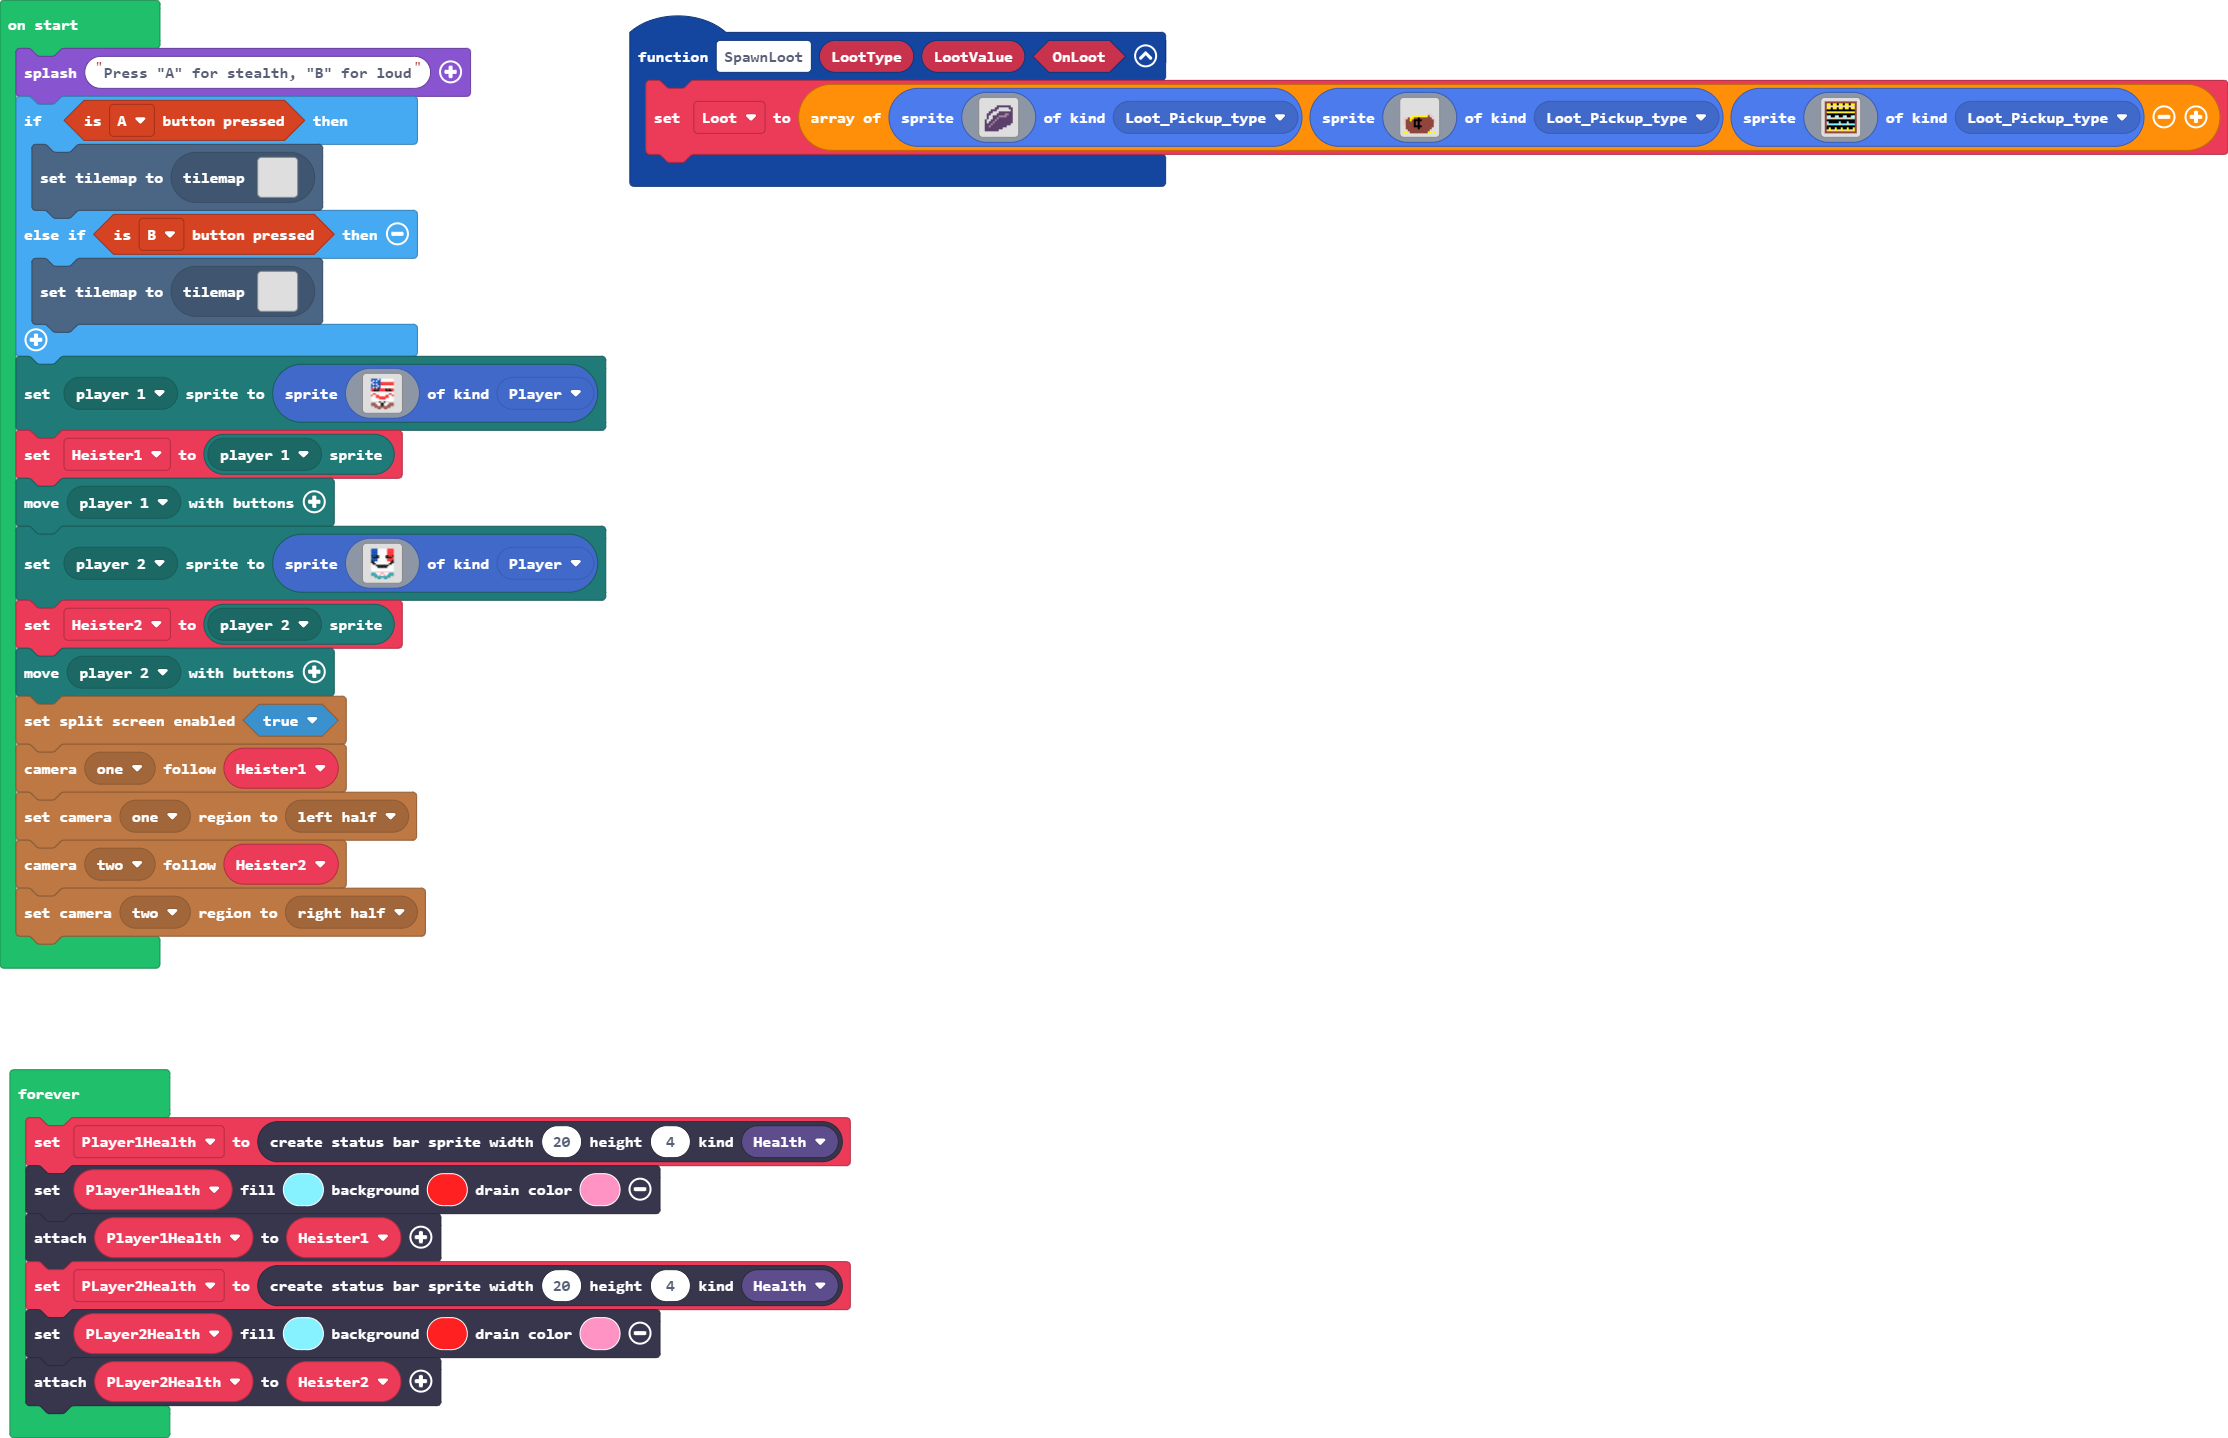
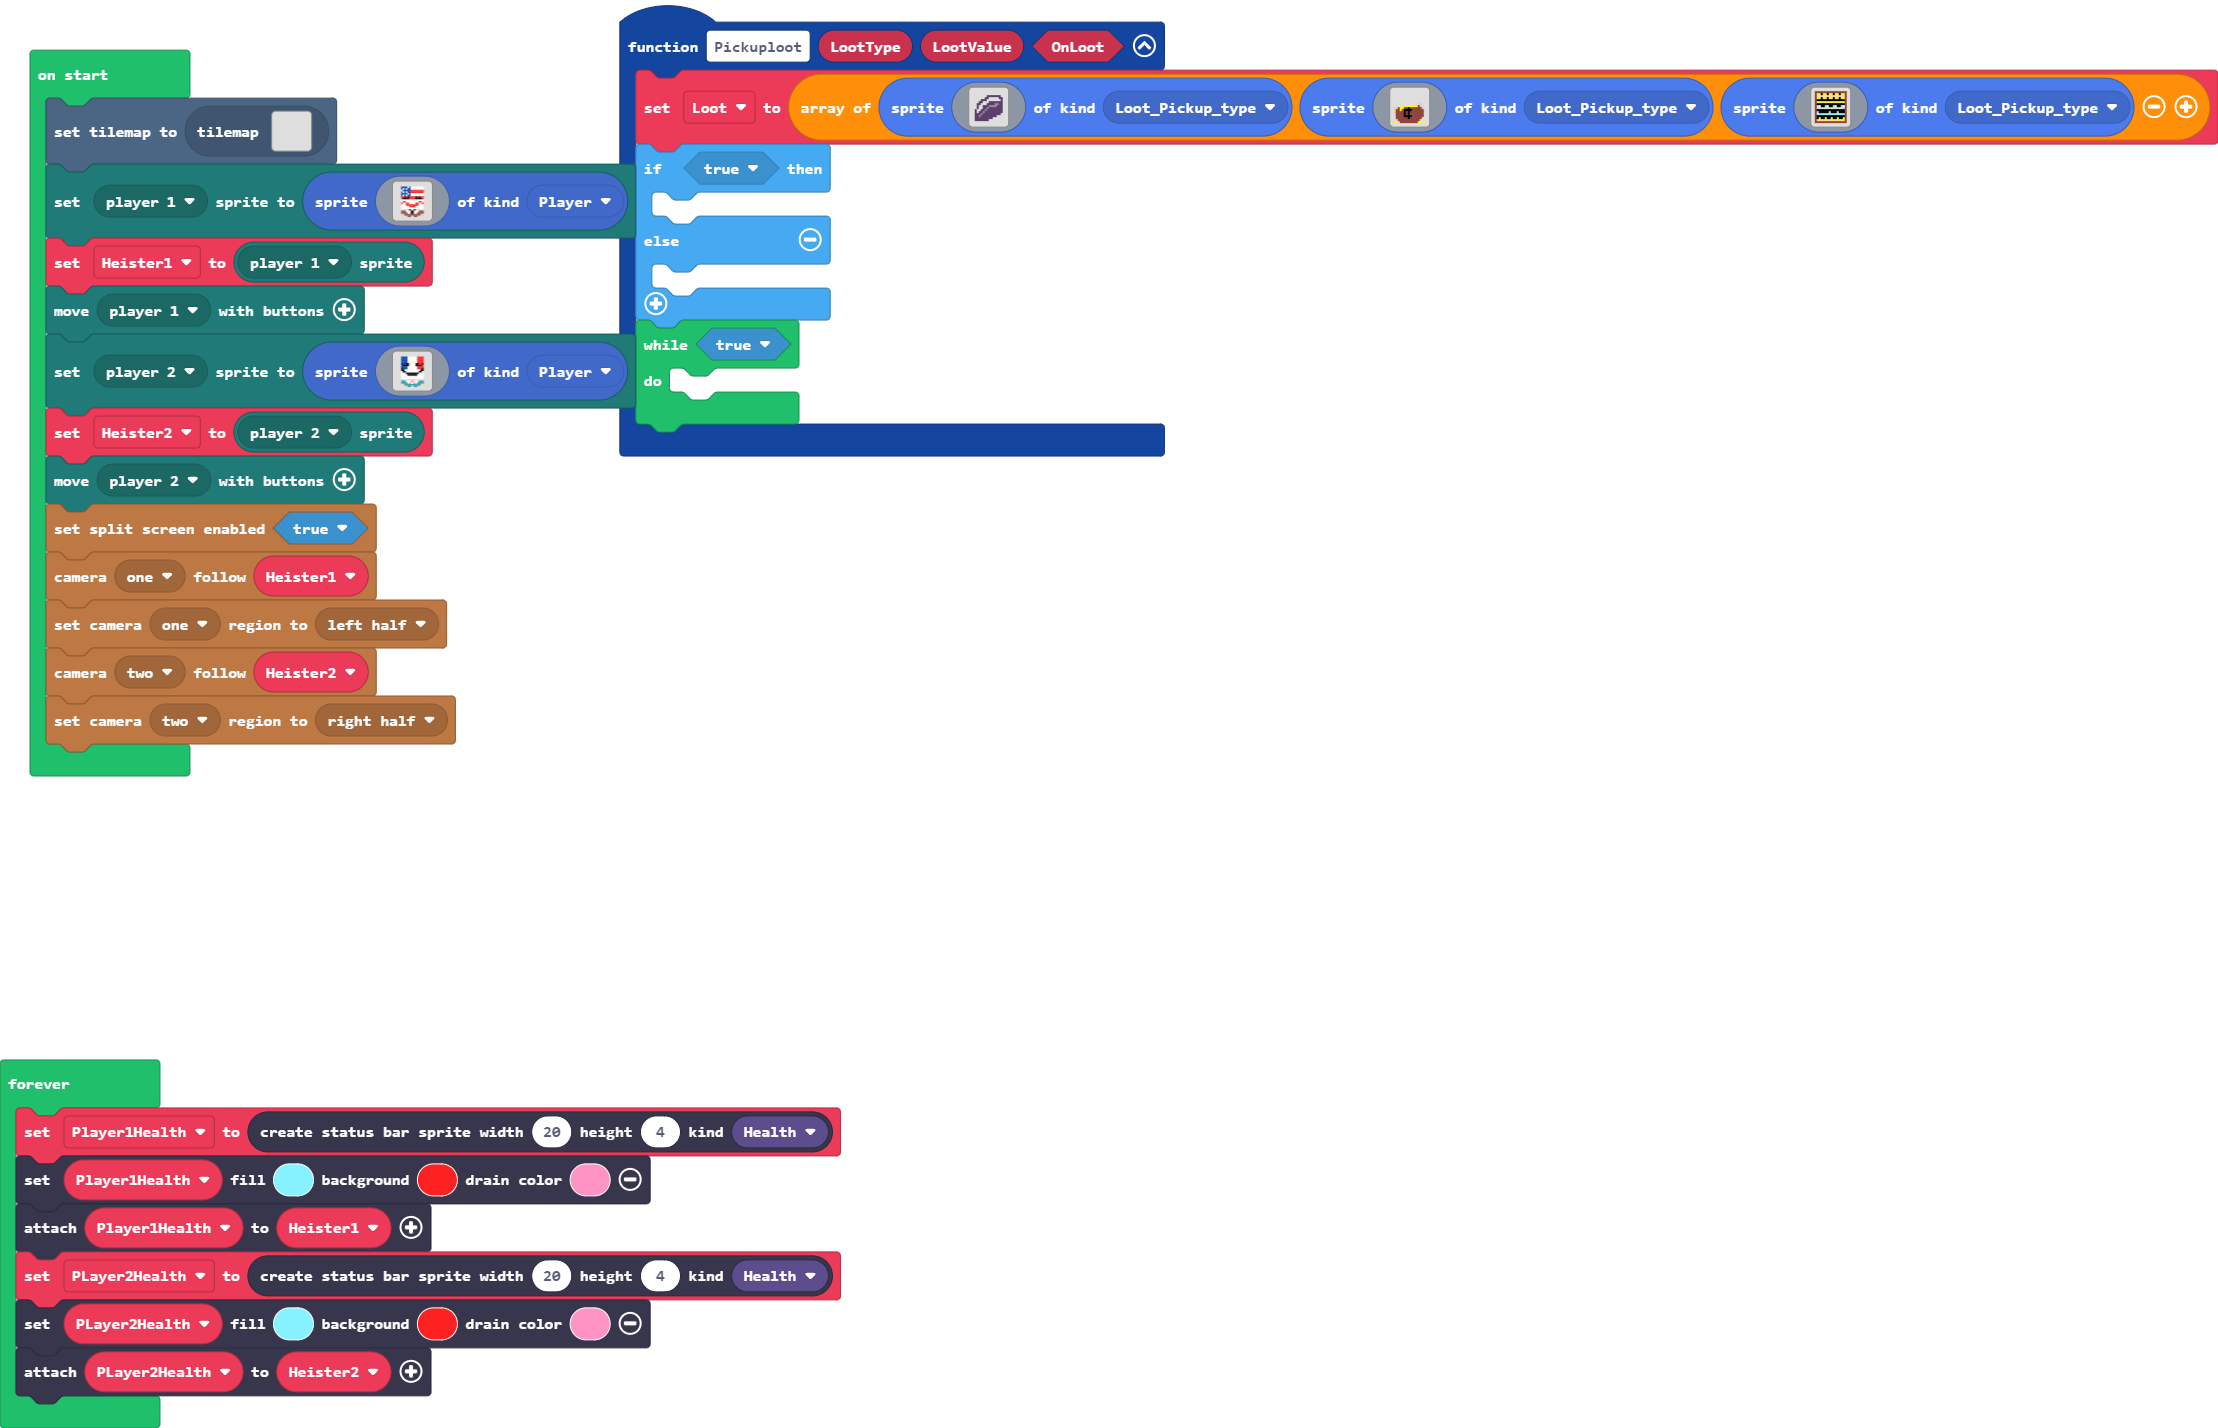
Update main.blocks, main.ts, tilemap.g.jres, tilemap.g.ts

Changed region(s): [[0.0, 0.0, 1.0, 0.6779], [0.0, 0.7395, 0.4044, 1.0]]

diff --git a/tilemap.g.ts b/tilemap.g.ts
@@ -2,6 +2,40 @@
 namespace myTiles {
     //% fixedInstance jres blockIdentity=images._tile
     export const transparency16 = image.ofBuffer(hex``);
+    //% fixedInstance jres blockIdentity=images._tile
+    export const tile1 = image.ofBuffer(hex``);
+    //% fixedInstance jres blockIdentity=images._tile
+    export const tile2 = image.ofBuffer(hex``);
+    //% fixedInstance jres blockIdentity=images._tile
+    export const tile3 = image.ofBuffer(hex``);
+    //% fixedInstance jres blockIdentity=images._tile
+    export const tile4 = image.ofBuffer(hex``);
+    //% fixedInstance jres blockIdentity=images._tile
+    export const tile5 = image.ofBuffer(hex``);
+    //% fixedInstance jres blockIdentity=images._tile
+    export const tile6 = image.ofBuffer(hex``);
+    //% fixedInstance jres blockIdentity=images._tile
+    export const tile7 = image.ofBuffer(hex``);
+    //% fixedInstance jres blockIdentity=images._tile
+    export const tile8 = image.ofBuffer(hex``);
+    //% fixedInstance jres blockIdentity=images._tile
+    export const tile9 = image.ofBuffer(hex``);
+    //% fixedInstance jres blockIdentity=images._tile
+    export const tile11 = image.ofBuffer(hex``);
+    //% fixedInstance jres blockIdentity=images._tile
+    export const tile12 = image.ofBuffer(hex``);
+    //% fixedInstance jres blockIdentity=images._tile
+    export const tile13 = image.ofBuffer(hex``);
+    //% fixedInstance jres blockIdentity=images._tile
+    export const tile14 = image.ofBuffer(hex``);
+    //% fixedInstance jres blockIdentity=images._tile
+    export const tile16 = image.ofBuffer(hex``);
+    //% fixedInstance jres blockIdentity=images._tile
+    export const tile15 = image.ofBuffer(hex``);
+    //% fixedInstance jres blockIdentity=images._tile
+    export const tile10 = image.ofBuffer(hex``);
+    //% fixedInstance jres blockIdentity=images._tile
+    export const tile17 = image.ofBuffer(hex``);
 
     helpers._registerFactory("tilemap", function(name: string) {
         switch(helpers.stringTrim(name)) {
@@ -43,6 +77,139 @@ namespace myTiles {
 . . . . . . . . . . . . . . . . 
 . . . . . . . . . . . . . . . . 
 `, [], -Infinity);
+            case "level":
+            case "level3":return tiles.createTilemap(hex`1000100003030303030303030303030303030303030303030303030303030303030303030303030303030303030303030303030303030304040404040404040404030303030404040404040404040404040404030404040404040406060404040404040404040404040404060604040404040404040404040404040606040404040404040404040404040404040404040404040404040404040404040404040404040404040404040404040507040404040404040404040401010101010101010404040404040401010101010101010101040404040401010101010101010101010104040404010101010101010101010101040402020202020202020202020202020202`, img`
+. . . . . . . . . . . . . . . . 
+. . . . . . . . . . . . . . . . 
+. . . . . . . . . . . . . . . . 
+. . . . . . . . . . . . . . . . 
+. . . . . . . . . . . . . . . . 
+. . . . . . . . . . . . . . . . 
+. . . . . . . . . . . . . . . . 
+. . . . . . . . . . . . . . . . 
+. . . . . . . . . . . . . . . . 
+. . . . . . . . . . . . . . . . 
+. . . . . . . . . . . . . . . . 
+. . . . . . . . . . . . . . . . 
+. . . . . . . . . . . . . . . . 
+. . . . . . . . . . . . . . . . 
+. . . . . . . . . . . . . . . . 
+. . . . . . . . . . . . . . . . 
+`, [myTiles.transparency16,sprites.dungeon.stairSouth,sprites.vehicle.roadHorizontal,myTiles.tile11,sprites.builtin.brick,myTiles.tile14,myTiles.tile10,myTiles.tile15], TileScale.Sixteen);
+            case "level4":
+            case "level4":return tiles.createTilemap(hex`1000100000000000000000000000000000000000000000000000000000000000000000000000000000000000000000000000000000000000000000000000000000000000000000000000000000000000000000000000000000000000000000000000000000000000000000000000000000000000000000000000000000000000000000000000000000000000000000000000000000000000000000000000000000000000000000000000000000000000000000000000000000000000000000000000000000000000000000000000000000000000000000000000000000000000000000000000000000000000000000000000000000000000000000000000000000000000`, img`
+. . . . . . . . . . . . . . . . 
+. . . . . . . . . . . . . . . . 
+. . . . . . . . . . . . . . . . 
+. . . . . . . . . . . . . . . . 
+. . . . . . . . . . . . . . . . 
+. . . . . . . . . . . . . . . . 
+. . . . . . . . . . . . . . . . 
+. . . . . . . . . . . . . . . . 
+. . . . . . . . . . . . . . . . 
+. . . . . . . . . . . . . . . . 
+. . . . . . . . . . . . . . . . 
+. . . . . . . . . . . . . . . . 
+. . . . . . . . . . . . . . . . 
+. . . . . . . . . . . . . . . . 
+. . . . . . . . . . . . . . . . 
+. . . . . . . . . . . . . . . . 
+`, [myTiles.transparency16], TileScale.Sixteen);
+            case "level5":
+            case "level5":return tiles.createTilemap(hex`1000100000000000000000000000000000000000000000000000000000000000000000000000000000000000000000000000000000000000000000000000000000000000000000000000000000000000000000000000000000000000000000000000000000000000000000000000000000000000000000000000000000000000000000000000000000000000000000000000000000000000000000000000000000000000000000000000000000000000000000000000000000000000000000000000000000000000000000000000000000000000000000000000000000000000000000000000000000000000000000000000000000000000000000000000000000000000`, img`
+. . . . . . . . . . . . . . . . 
+. . . . . . . . . . . . . . . . 
+. . . . . . . . . . . . . . . . 
+. . . . . . . . . . . . . . . . 
+. . . . . . . . . . . . . . . . 
+. . . . . . . . . . . . . . . . 
+. . . . . . . . . . . . . . . . 
+. . . . . . . . . . . . . . . . 
+. . . . . . . . . . . . . . . . 
+. . . . . . . . . . . . . . . . 
+. . . . . . . . . . . . . . . . 
+. . . . . . . . . . . . . . . . 
+. . . . . . . . . . . . . . . . 
+. . . . . . . . . . . . . . . . 
+. . . . . . . . . . . . . . . . 
+. . . . . . . . . . . . . . . . 
+`, [myTiles.transparency16], TileScale.Sixteen);
+            case "level6":
+            case "level6":return tiles.createTilemap(hex`1000100000000000000000000000000000000000000000000000000000000000000000000000000000000000000000000000000000000000000000000000000000000000000000000000000000000000000000000000000000000000000000000000000000000000000000000000000000000000000000000000000000000000000000000000000000000000000000000000000000000000000000000000000000000000000000000000000000000000000000000000000000000000000000000000000000000000000000000000000000000000000000000000000000000000000000000000000000000000000000000000000000000000000000000000000000000000`, img`
+. . . . . . . . . . . . . . . . 
+. . . . . . . . . . . . . . . . 
+. . . . . . . . . . . . . . . . 
+. . . . . . . . . . . . . . . . 
+. . . . . . . . . . . . . . . . 
+. . . . . . . . . . . . . . . . 
+. . . . . . . . . . . . . . . . 
+. . . . . . . . . . . . . . . . 
+. . . . . . . . . . . . . . . . 
+. . . . . . . . . . . . . . . . 
+. . . . . . . . . . . . . . . . 
+. . . . . . . . . . . . . . . . 
+. . . . . . . . . . . . . . . . 
+. . . . . . . . . . . . . . . . 
+. . . . . . . . . . . . . . . . 
+. . . . . . . . . . . . . . . . 
+`, [myTiles.transparency16], TileScale.Sixteen);
+            case "level7":
+            case "level7":return tiles.createTilemap(hex`1000100000000000000000000000000000000000000000000000000000000000000000000000000000000000000000000000000000000000000000000000000000000000000000000000000000000000000000000000000000000000000000000000000000000000000000000000000000000000000000000000000000000000000000000000000000000000000000000000000000000000000000000000000000000000000000000000000000000000000000000000000000000000000000000000000000000000000000000000000000000000000000000000000000000000000000000000000000000000000000000000000000000000000000000000000000000000`, img`
+. . . . . . . . . . . . . . . . 
+. . . . . . . . . . . . . . . . 
+. . . . . . . . . . . . . . . . 
+. . . . . . . . . . . . . . . . 
+. . . . . . . . . . . . . . . . 
+. . . . . . . . . . . . . . . . 
+. . . . . . . . . . . . . . . . 
+. . . . . . . . . . . . . . . . 
+. . . . . . . . . . . . . . . . 
+. . . . . . . . . . . . . . . . 
+. . . . . . . . . . . . . . . . 
+. . . . . . . . . . . . . . . . 
+. . . . . . . . . . . . . . . . 
+. . . . . . . . . . . . . . . . 
+. . . . . . . . . . . . . . . . 
+. . . . . . . . . . . . . . . . 
+`, [myTiles.transparency16], TileScale.Sixteen);
+            case "level8":
+            case "level8":return tiles.createTilemap(hex`1000100000000000000000000000000000000000000000000000000000000000000000000000000000000000000000000000000000000000000000000000000000000000000000000000000000000000000000000000000000000000000000000000000000000000000000000000000000000000000000000000000000000000000000000000000000000000000000000000000000000000000000000000000000000000000000000000000000000000000000000000000000000000000000000000000000000000000000000000000000000000000000000000000000000000000000000000000000000000000000000000000000000000000000000000000000000000`, img`
+. . . . . . . . . . . . . . . . 
+. . . . . . . . . . . . . . . . 
+. . . . . . . . . . . . . . . . 
+. . . . . . . . . . . . . . . . 
+. . . . . . . . . . . . . . . . 
+. . . . . . . . . . . . . . . . 
+. . . . . . . . . . . . . . . . 
+. . . . . . . . . . . . . . . . 
+. . . . . . . . . . . . . . . . 
+. . . . . . . . . . . . . . . . 
+. . . . . . . . . . . . . . . . 
+. . . . . . . . . . . . . . . . 
+. . . . . . . . . . . . . . . . 
+. . . . . . . . . . . . . . . . 
+. . . . . . . . . . . . . . . . 
+. . . . . . . . . . . . . . . . 
+`, [myTiles.transparency16], TileScale.Sixteen);
+            case "level9":
+            case "level9":return tiles.createTilemap(hex`1000100000000000000000000000000000000000000000000000000000000000000000000000000000000000000000000000000000000000000000000000000000000000000000000000000000000000000000000000000000000000000000000000000000000000000000000000000000000000000000000000000000000000000000000000000000000000000000000000000000000000000000000000000000000000000000000000000000000000000000000000000000000000000000000000000000000000000000000000000000000000000000000000000000000000000000000000000000000000000000000000000000000000000000000000000000000000`, img`
+. . . . . . . . . . . . . . . . 
+. . . . . . . . . . . . . . . . 
+. . . . . . . . . . . . . . . . 
+. . . . . . . . . . . . . . . . 
+. . . . . . . . . . . . . . . . 
+. . . . . . . . . . . . . . . . 
+. . . . . . . . . . . . . . . . 
+. . . . . . . . . . . . . . . . 
+. . . . . . . . . . . . . . . . 
+. . . . . . . . . . . . . . . . 
+. . . . . . . . . . . . . . . . 
+. . . . . . . . . . . . . . . . 
+. . . . . . . . . . . . . . . . 
+. . . . . . . . . . . . . . . . 
+. . . . . . . . . . . . . . . . 
+. . . . . . . . . . . . . . . . 
+`, [myTiles.transparency16], TileScale.Sixteen);
         }
         return null;
     })
@@ -50,6 +217,30 @@ namespace myTiles {
     helpers._registerFactory("tile", function(name: string) {
         switch(helpers.stringTrim(name)) {
             case "transparency16":return transparency16;
+            case "myTile":
+            case "tile1":return tile1;
+            case "tile2":return tile2;
+            case "tile3":return tile3;
+            case "tile4":return tile4;
+            case "tile5":return tile5;
+            case "tile6":return tile6;
+            case "tile7":return tile7;
+            case "tile8":return tile8;
+            case "tile9":return tile9;
+            case "myTile0":
+            case "tile11":return tile11;
+            case "myTile1":
+            case "tile12":return tile12;
+            case "myTile2":
+            case "tile13":return tile13;
+            case "myTile3":
+            case "tile14":return tile14;
+            case "myTile5":
+            case "tile16":return tile16;
+            case "myTile4":
+            case "tile15":return tile15;
+            case "tile10":return tile10;
+            case "tile17":return tile17;
         }
         return null;
     })

diff --git a/main.ts b/main.ts
@@ -7,12 +7,7 @@ function SpawnLoot (LootType: string, LootValue: number, OnLoot: boolean) {
 let PLayer2Health: StatusBarSprite = null
 let Player1Health: StatusBarSprite = null
 let Loot: Sprite[] = []
-game.splash("Press \"A\" for stealth, \"B\" for loud")
-if (controller.A.isPressed()) {
-    tiles.setCurrentTilemap(tilemap`level1`)
-} else if (controller.B.isPressed()) {
-    tiles.setCurrentTilemap(tilemap`level2`)
-}
+tiles.setCurrentTilemap(tilemap`level1`)
 mp.setPlayerSprite(mp.playerSelector(mp.PlayerNumber.One), sprites.create(assets.image`Austin`, SpriteKind.Player))
 let Heister1 = mp.getPlayerSprite(mp.playerSelector(mp.PlayerNumber.One))
 mp.moveWithButtons(mp.playerSelector(mp.PlayerNumber.One))
